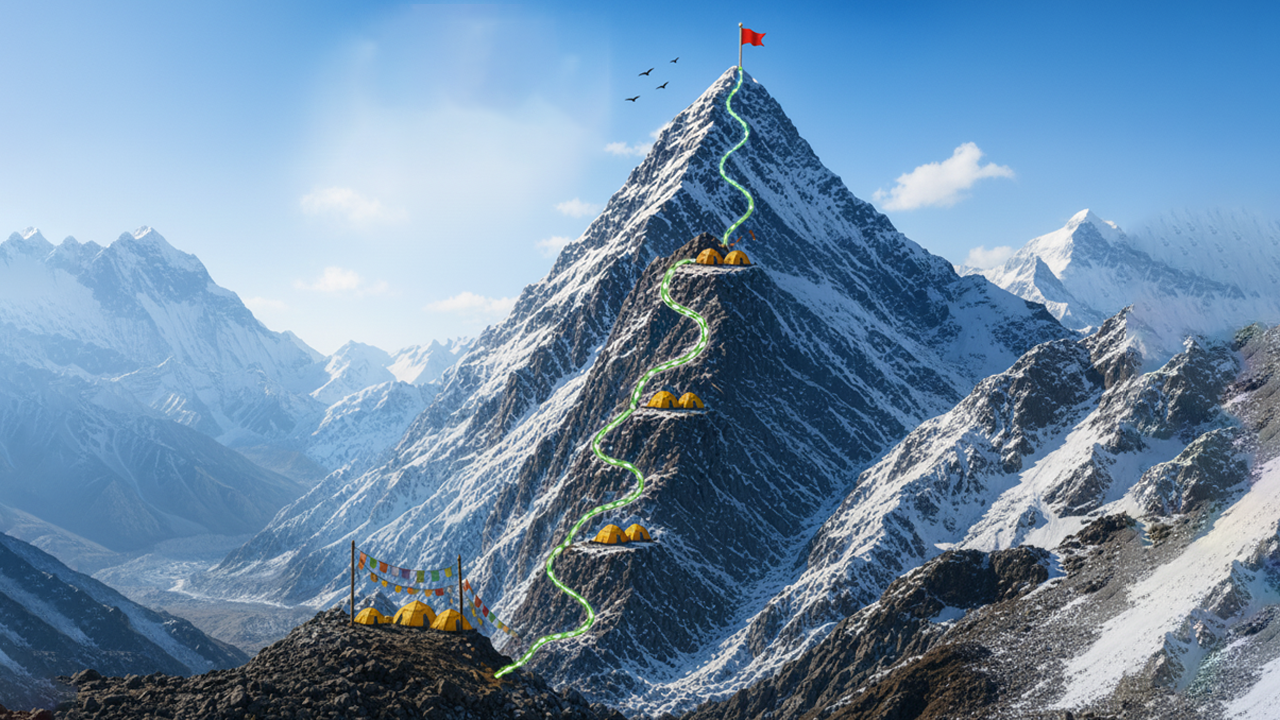
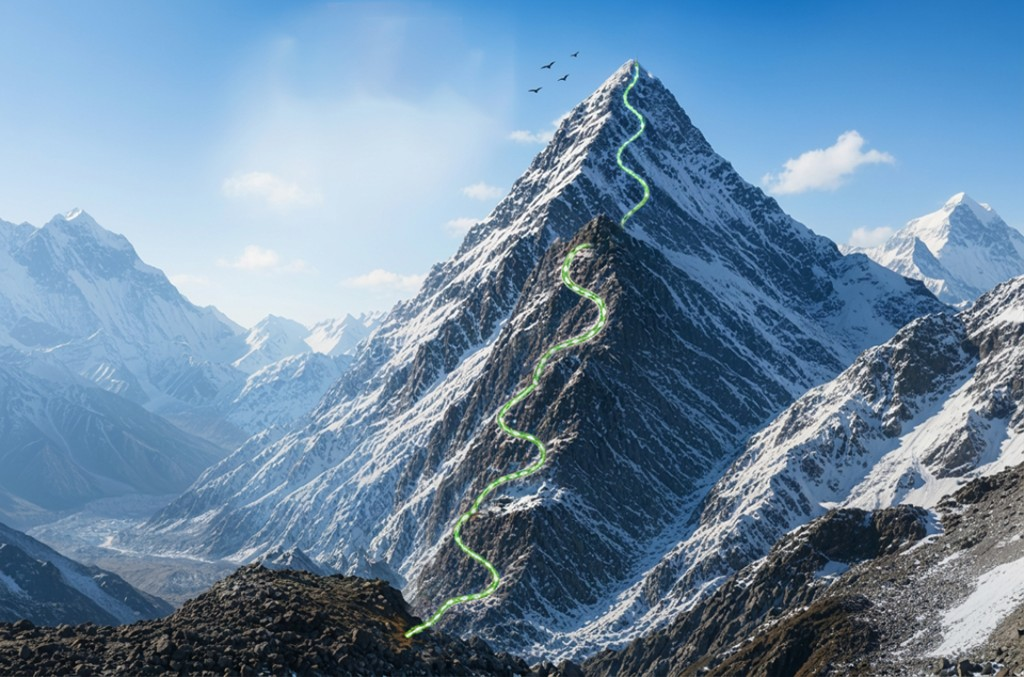
camp image and flags update

diff --git a/src/components/MountainProgressGame.css b/src/components/MountainProgressGame.css
@@ -51,11 +51,11 @@
   display: flex;
   flex-direction: column;
   align-items: center;
-  gap: 2px;
+  gap: 1px;
   background: rgba(32, 18, 10, 0.92);
   color: #f5f5f5;
-  padding: 10px 14px 10px;
-  border-radius: 12px;
+  padding: 7px 11px 8px;
+  border-radius: 10px;
   border: 2px solid rgba(255, 255, 255, 0.22);
   box-shadow: 0 4px 18px rgba(0, 0, 0, 0.35);
 }
@@ -63,13 +63,13 @@
 .hud-title h2 {
   margin: 0;
   line-height: 1.1;
-  font-size: 1.55rem;
-  letter-spacing: 1px;
+  font-size: 1.28rem;
+  letter-spacing: 0.75px;
 }
 
 .hud-title p {
   margin: 2px 0 0;
-  font-size: 0.78rem;
+  font-size: 0.68rem;
   text-transform: uppercase;
 }
 
@@ -116,12 +116,21 @@
   left: 94px;
   transform: translateY(-50%);
   z-index: 1;
-  min-width: 156px;
+  min-width: 132px;
   background: #f8f8f8;
   border: 2px solid #b01212;
-  border-radius: 10px;
+  border-radius: 9px;
   overflow: hidden;
   box-shadow: 0 3px 10px rgba(0, 0, 0, 0.28);
+  transition: transform 0.2s ease;
+}
+
+.camp-label:not([aria-disabled='true']) {
+  cursor: pointer;
+}
+
+.camp-label:not([aria-disabled='true']):hover {
+  transform: translateY(-50%) scale(1.08);
 }
 
 .camp-label-camp-1 {
@@ -132,21 +141,21 @@
   display: block;
   background: #b01212;
   color: #fff;
-  font-size: 0.85rem;
+  font-size: 0.74rem;
   font-weight: 800;
   text-transform: uppercase;
-  letter-spacing: 0.7px;
-  padding: 5px 10px 4px;
+  letter-spacing: 0.5px;
+  padding: 3px 8px 2px;
   line-height: 1.1;
 }
 
 .camp-label-subtitle {
   display: block;
   color: #1e1e1e;
-  font-size: 0.82rem;
+  font-size: 0.7rem;
   font-weight: 700;
   line-height: 1.25;
-  padding: 7px 10px 9px;
+  padding: 5px 8px 6px;
 }
 
 .camp-label.status-active {
@@ -180,11 +189,25 @@
   padding: 4px 10px;
 }
 
+.summit-flag-node {
+  position: absolute;
+  transform: translate(-50%, -50%);
+  z-index: 10;
+  pointer-events: none;
+}
+
 .summit-text {
   font-size: 0.8rem;
   font-weight: 700;
   text-transform: uppercase;
   letter-spacing: 0.5px;
+}
+
+.summit-flag-image {
+  width: 36px;
+  height: 36px;
+  object-fit: contain;
+  display: block;
 }
 
 .result-open-button {
@@ -562,22 +585,22 @@
   }
 
   .hud-title {
-    max-width: min(92vw, 280px);
-    padding: 8px 10px 8px;
-    gap: 2px;
+    max-width: min(92vw, 250px);
+    padding: 6px 9px 7px;
+    gap: 1px;
   }
 
   .hud-title .brand-header-logo {
-    width: 48px;
-    height: 48px;
+    width: 40px;
+    height: 40px;
   }
 
   .hud-title h2 {
-    font-size: clamp(1.1rem, 4vw, 1.5rem);
+    font-size: clamp(0.98rem, 3.6vw, 1.28rem);
   }
 
   .hud-title p {
-    font-size: 0.72rem;
+    font-size: 0.64rem;
     line-height: 1.2;
   }
 
@@ -593,7 +616,7 @@
 
   .camp-label {
     left: 76px;
-    min-width: 132px;
+    min-width: 114px;
   }
 
   .camp-label-camp-1 {
@@ -601,13 +624,13 @@
   }
 
   .camp-label-title {
-    font-size: 0.75rem;
-    padding: 4px 8px 3px;
+    font-size: 0.66rem;
+    padding: 3px 6px 2px;
   }
 
   .camp-label-subtitle {
-    font-size: 0.72rem;
-    padding: 5px 8px 6px;
+    font-size: 0.62rem;
+    padding: 4px 6px 4px;
   }
 
   .summit-node {
@@ -617,6 +640,11 @@
 
   .summit-text {
     font-size: 0.72rem;
+  }
+
+  .summit-flag-image {
+    width: 30px;
+    height: 30px;
   }
 
   .result-open-button {
@@ -670,22 +698,22 @@
     top: max(8px, env(safe-area-inset-top));
     left: max(8px, env(safe-area-inset-left));
     max-width: calc(100vw - 16px - env(safe-area-inset-left) - env(safe-area-inset-right));
-    padding: 6px 8px 6px;
-    gap: 2px;
+    padding: 5px 7px 5px;
+    gap: 1px;
   }
 
   .hud-title .brand-header-logo {
-    width: 44px;
-    height: 44px;
+    width: 36px;
+    height: 36px;
   }
 
   .hud-title h2 {
-    font-size: clamp(0.95rem, 4.2vw, 1.25rem);
-    letter-spacing: 0.5px;
+    font-size: clamp(0.82rem, 3.8vw, 1.08rem);
+    letter-spacing: 0.45px;
   }
 
   .hud-title p {
-    font-size: 0.62rem;
+    font-size: 0.56rem;
   }
 
   .tent-image {
@@ -702,7 +730,7 @@
     left: 54px;
     min-width: 0;
     width: max-content;
-    max-width: min(44vw, 168px);
+    max-width: min(40vw, 142px);
   }
 
   .camp-label-camp-1 {
@@ -710,14 +738,14 @@
   }
 
   .camp-label-title {
-    font-size: 0.62rem;
-    letter-spacing: 0.3px;
-    padding: 3px 6px 2px;
+    font-size: 0.52rem;
+    letter-spacing: 0.25px;
+    padding: 2px 5px 2px;
   }
 
   .camp-label-subtitle {
-    font-size: 0.58rem;
-    padding: 4px 6px 5px;
+    font-size: 0.5rem;
+    padding: 3px 5px 4px;
     line-height: 1.15;
   }
 
@@ -728,6 +756,11 @@
 
   .summit-text {
     font-size: 0.62rem;
+  }
+
+  .summit-flag-image {
+    width: 24px;
+    height: 24px;
   }
 
   .result-open-button {

diff --git a/src/components/MountainProgressGame.jsx b/src/components/MountainProgressGame.jsx
@@ -280,6 +280,8 @@ const CAMP4_EXTERNAL_URL = 'https://antiz-digital.com/building-evacuation/'
 const CAMP1_EXTERNAL_URL = 'https://antiz-digital.com/fire-safety-learn/'
 const PARTNER_LICENSE_URL = 'https://antiz-digital.com/GamifiedLearning/partner/license'
 const PLATFORM_PLAY_URL = 'https://antiz-digital.com/GamifiedLearning/play'
+const SUMMIT_FLAG_RED_URL = publicUrl('assets/summit-flag-red.png')
+const SUMMIT_FLAG_GREEN_URL = publicUrl('assets/summit-flag-green.png')
 
 const getResultExitUrl = (token) => {
   if (!token) return PARTNER_LICENSE_URL
@@ -316,13 +318,13 @@ const reportPlayComplete = async ({ token, playNo, score, playResult }) => {
 }
 
 const positions = [
-  { top: '92%', left: '31%' },
-  { top: '80%', left: '48%' },
-  { top: '59%', left: '52%' },
-  { top: '37%', left: '56%' },
+  { top: '98%', left: '38%' },
+  { top: '80%', left: '50%' },
+  { top: '59%', left: '54%' },
+  { top: '35%', left: '59%' },
 ]
 
-const summitPosition = { top: '10%', left: '62%' }
+const summitPosition = { top: '8%', left: '70%' }
 const MAP_SCALE_X = 0.95
 const MAP_SCALE_Y = 0.9
 const MAP_OFFSET_Y = 2
@@ -336,6 +338,11 @@ const remapPointToMountain = (point) => {
     top: `${MAP_OFFSET_Y + top * MAP_SCALE_Y}%`,
   }
 }
+
+const offsetPointByPercent = (point, leftOffset = 0, topOffset = 0) => ({
+  left: `${parseFloat(point.left) + leftOffset}%`,
+  top: `${parseFloat(point.top) + topOffset}%`,
+})
 
 const defaultLevels = [
   {
@@ -521,6 +528,10 @@ function MountainProgressGame() {
     () => remapPointToMountain(summitPosition),
     [],
   )
+  const mappedSummitFlagPosition = useMemo(
+    () => remapPointToMountain(offsetPointByPercent(summitPosition, -6.6, -3.8)),
+    [],
+  )
   const completedCount = useMemo(
     () => levels.filter((level) => level.status === 'completed').length,
     [levels],
@@ -679,6 +690,17 @@ function MountainProgressGame() {
 
             <div
               className={`camp-label status-${level.status} ${level.id === 1 ? 'camp-label-camp-1' : ''}`}
+              role="button"
+              tabIndex={level.status === 'locked' ? -1 : 0}
+              aria-disabled={level.status === 'locked'}
+              onClick={() => handleTentClick(level)}
+              onKeyDown={(event) => {
+                if (level.status === 'locked') return
+                if (event.key === 'Enter' || event.key === ' ') {
+                  event.preventDefault()
+                  handleTentClick(level)
+                }
+              }}
             >
               <span className="camp-label-title">{level.title}</span>
               <span className="camp-label-subtitle">
@@ -688,6 +710,22 @@ function MountainProgressGame() {
           </div>
         ))}
 
+        {/* 🏁 SUMMIT FLAG */}
+        <div
+          className="summit-flag-node"
+          style={{
+            top: mappedSummitFlagPosition.top,
+            left: mappedSummitFlagPosition.left,
+          }}
+        >
+          <img
+            src={isPassed ? SUMMIT_FLAG_GREEN_URL : SUMMIT_FLAG_RED_URL}
+            alt={isPassed ? 'Green summit flag' : 'Red summit flag'}
+            className="summit-flag-image"
+            draggable={false}
+          />
+        </div>
+
         {/* 🏁 SUMMIT */}
         <div
           className="summit-node"
@@ -696,7 +734,6 @@ function MountainProgressGame() {
             left: mappedSummitPosition.left,
           }}
         >
-          <span className="summit-flag">🏁</span>
           <span className="summit-text">Summit</span>
         </div>
       </div>

diff --git a/src/components/FireShieldBrandHeader.css b/src/components/FireShieldBrandHeader.css
@@ -35,7 +35,7 @@
 
 /* Map HUD — compact mark inside title panel */
 .hud-title .brand-header-logo {
-  width: 56px;
-  height: 56px;
-  filter: drop-shadow(0 0 12px rgba(255, 220, 100, 0.65));
+  width: 46px;
+  height: 46px;
+  filter: drop-shadow(0 0 10px rgba(255, 220, 100, 0.55));
 }